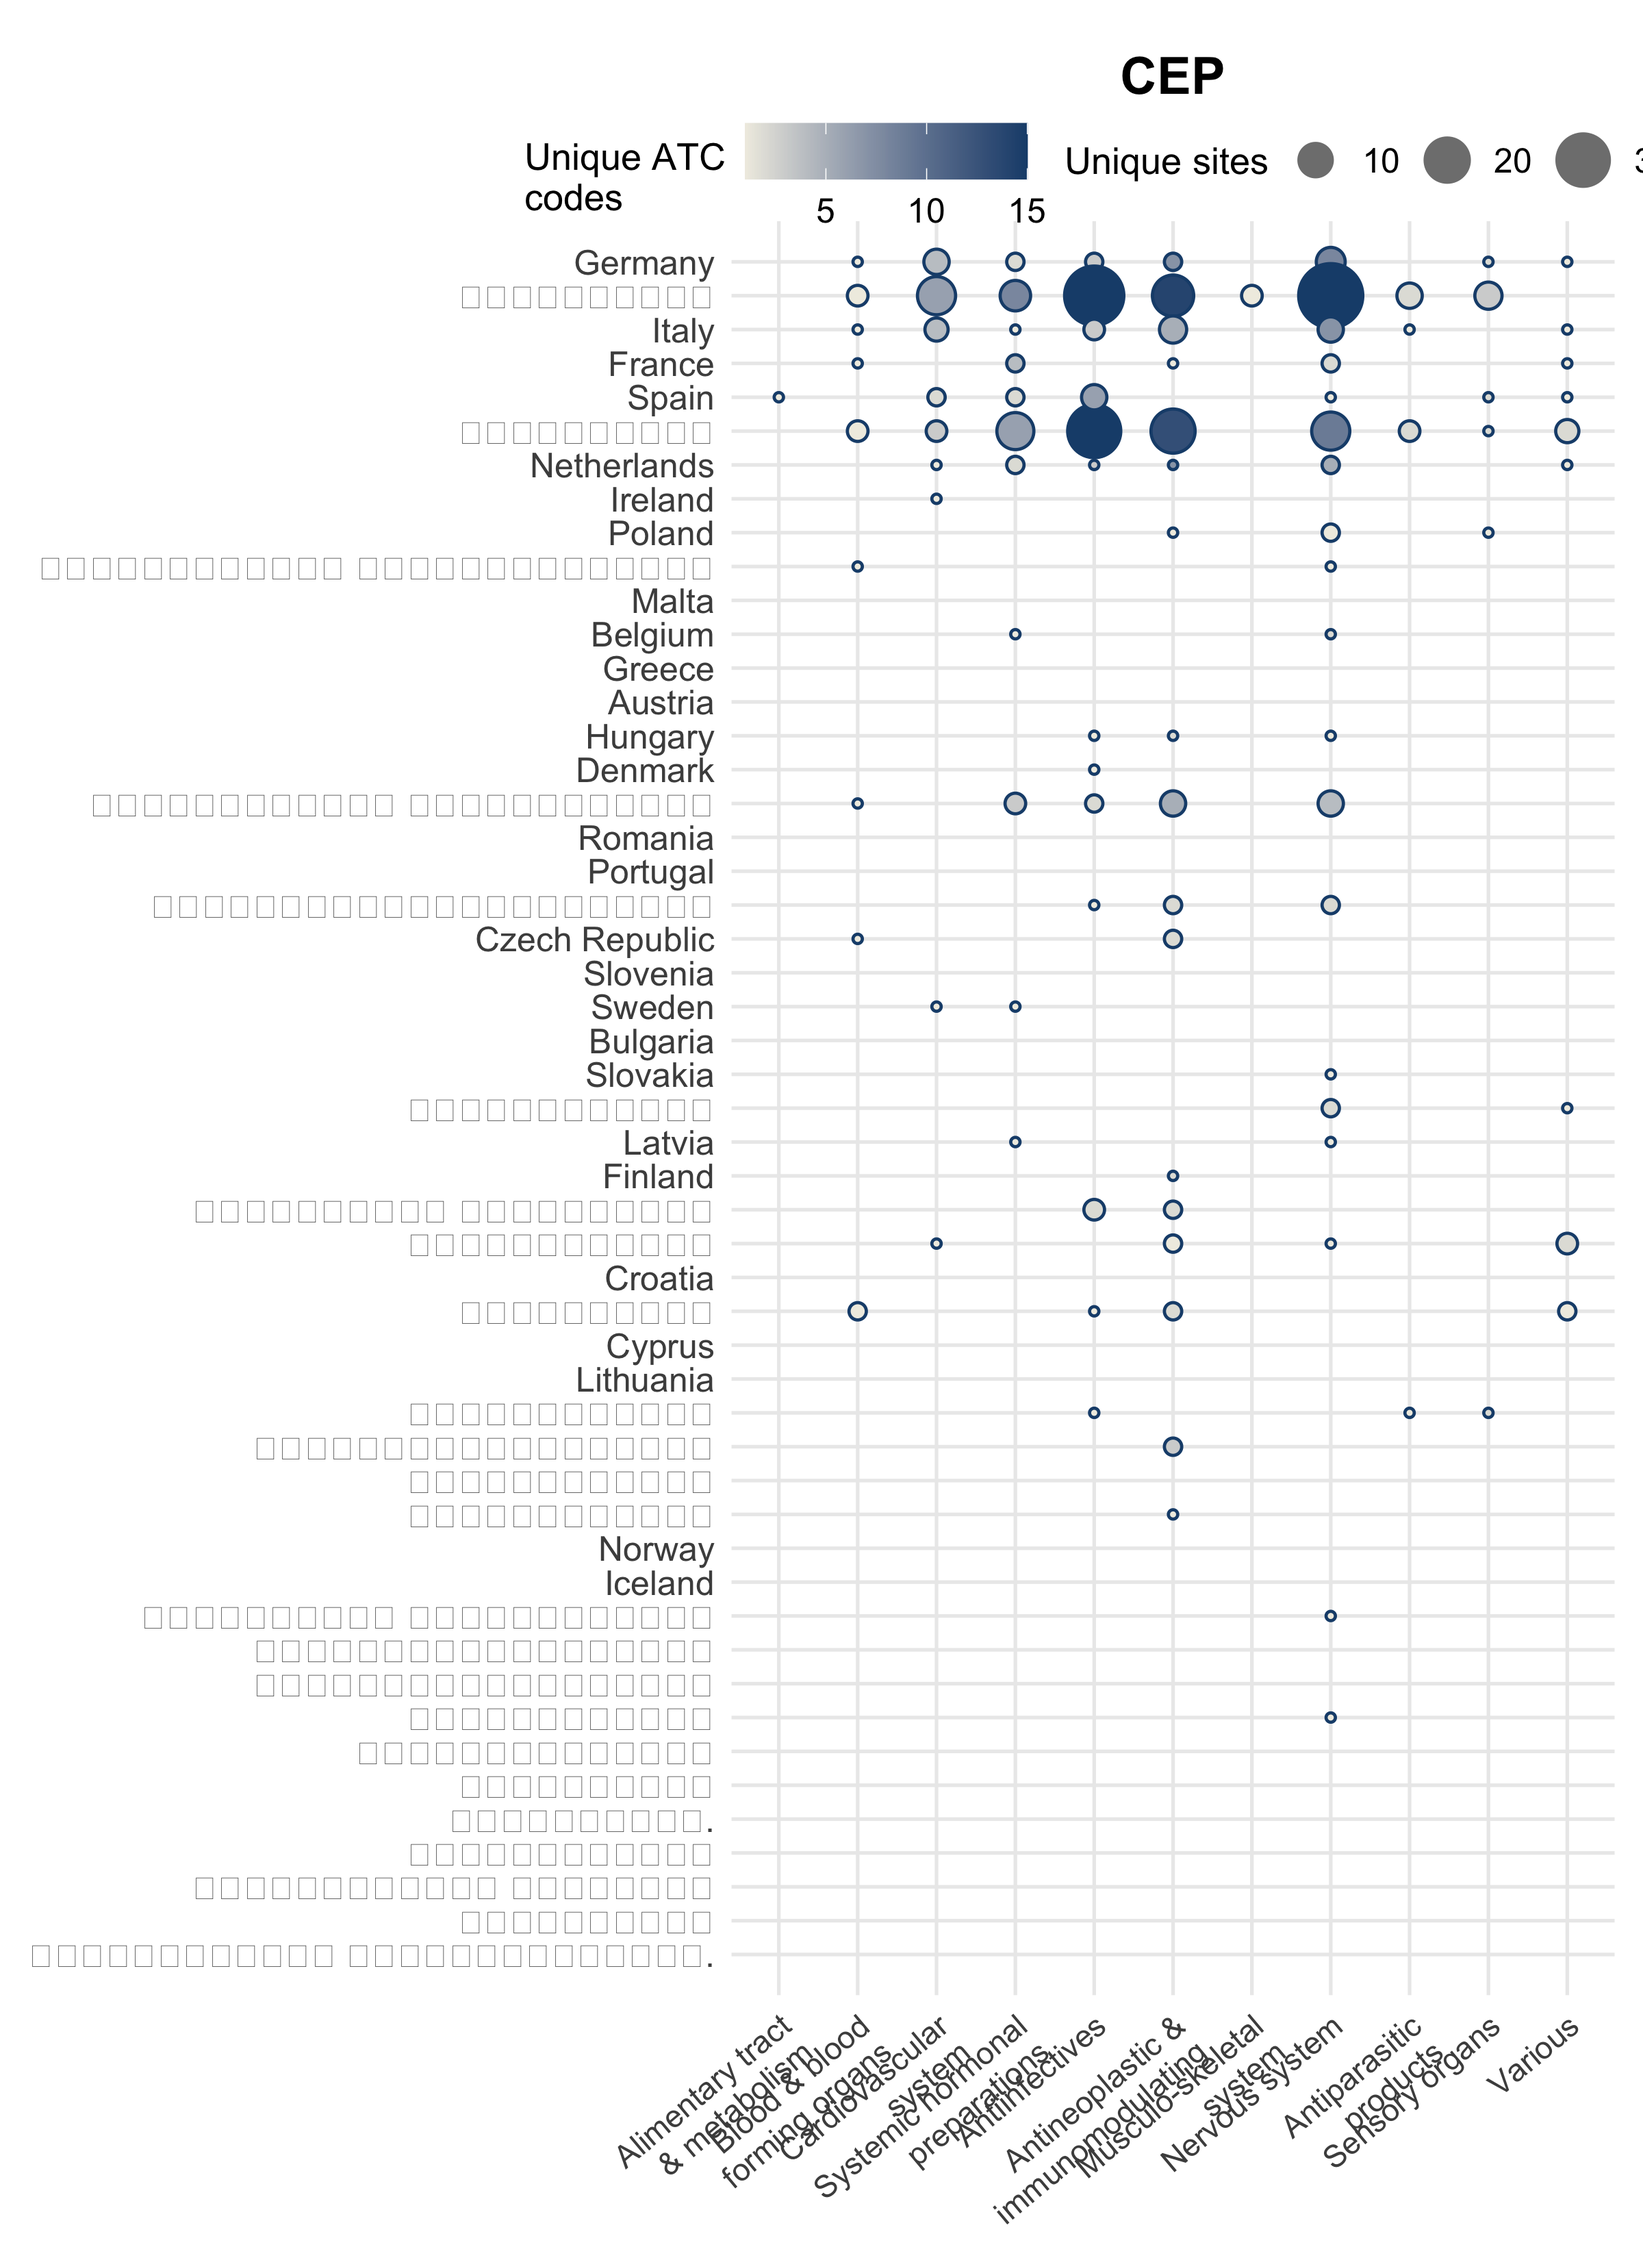
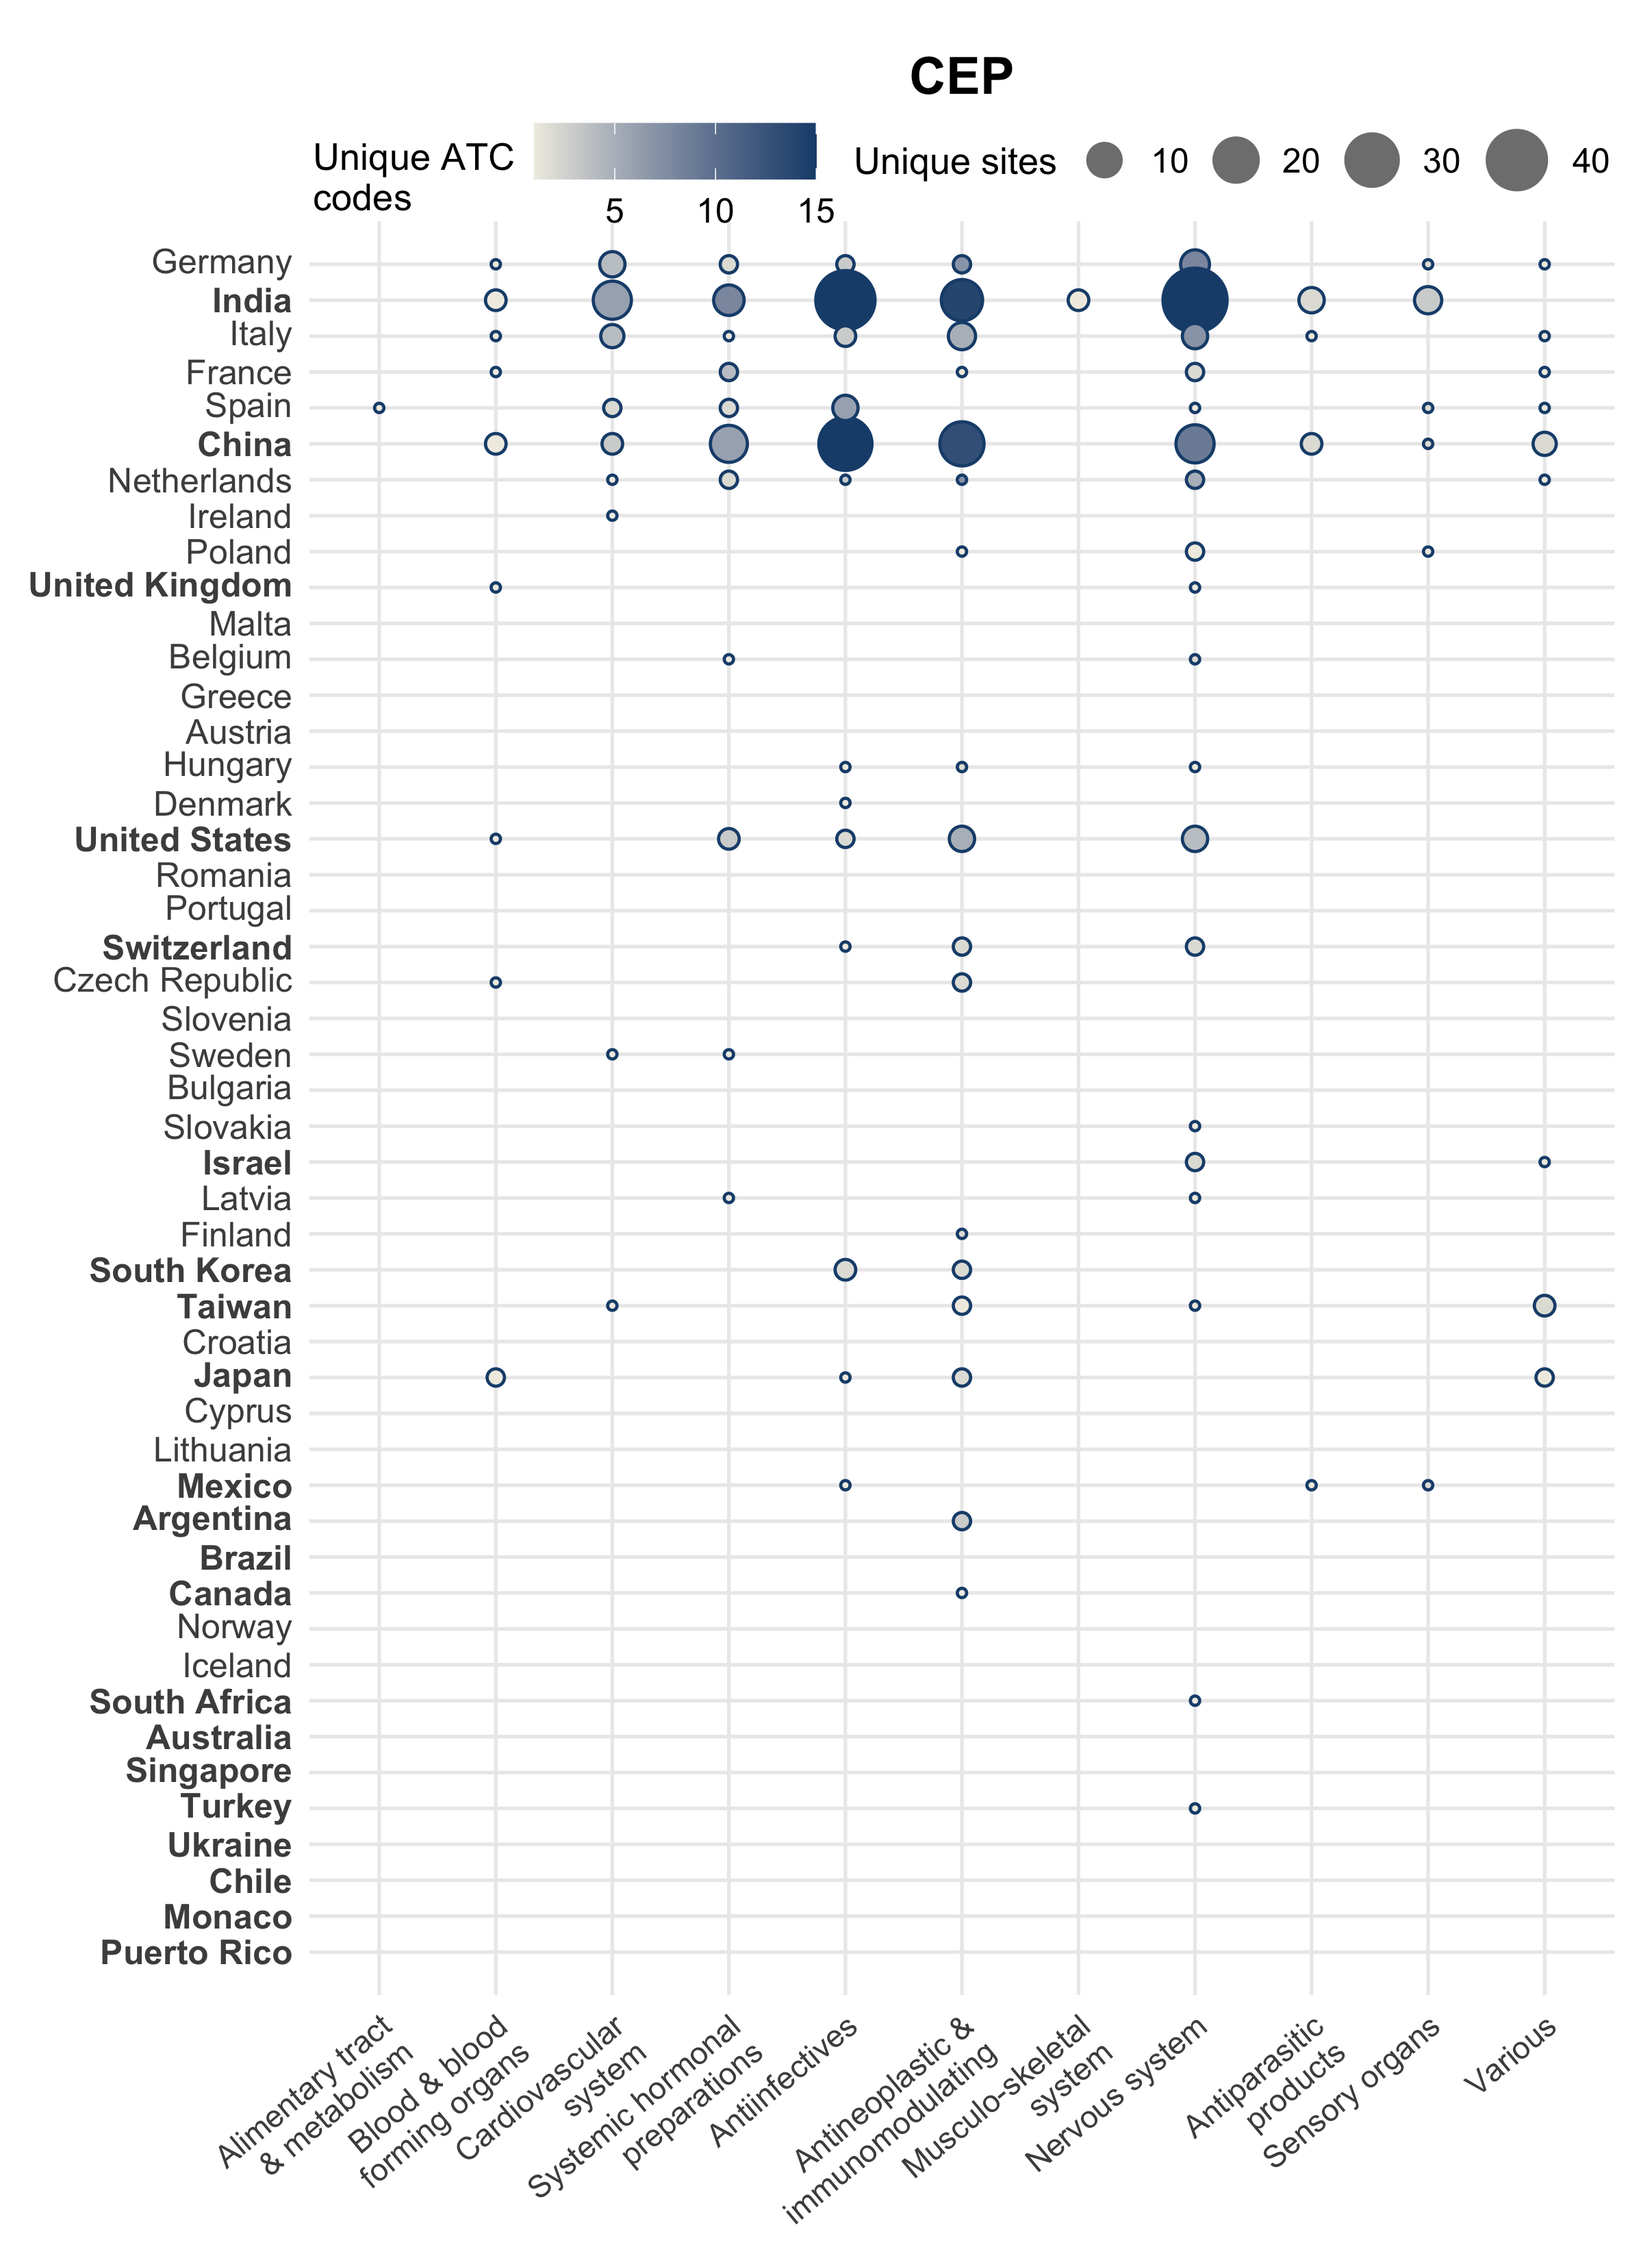
Fix duplicate country spellings and bold labels in bubble matrix
- 01_combine_sources.R unifies country spellings ("Italy.", "SPAIN",
  "United Kingdom.", "UK", "USA", "The Netherlands", "Republic of Korea"),
  which appeared as separate rows in the bubble matrix and inflated the
  Irish country count from 29 to 32
- 05_bubble_matrix.R marks non-EU/EEA countries with plotmath bold instead
  of Unicode mathematical-bold characters, which rendered as empty boxes
  with fonts lacking those glyphs

Changed region(s): [[0.0312, 0.0, 1.0, 0.9676], [0.125, 0.9364, 0.1875, 0.9676]]

diff --git a/results/tables/hhi_highest_by_source.tex b/results/tables/hhi_highest_by_source.tex
@@ -1,5 +1,5 @@
 % latex table generated in R 4.6.0 by xtable 1.8-8 package
-% Sat Oct  3 10:34:20 2026
+% Sat Oct  3 10:49:12 2026
 \begin{table}[ht]
 \centering
 \begin{tabular}{rlrrr}

diff --git a/README.md b/README.md
@@ -86,7 +86,7 @@ After restriction to critical medicines the four sources cover:
 | Source | ATC codes | Manufacturers | Countries |
 |---|---|---|---|
 | Germany (BfArM) | 251 | 1,824 | 48 |
-| Ireland (HPRA) | 205 | 523 | 32 |
+| Ireland (HPRA) | 205 | 523 | 29 |
 | CEP (EDQM) | 79 | 313 | 29 |
 | EPAR (EMA) | 51 | 140 | 26 |
 
@@ -122,7 +122,9 @@ manufacturer × country × manufacturing step × source, with the ATC level-1 ch
   result is then restricted to the critical codes. The holder's country is the trailing ISO-2 code of
   the holder field.
 - In all sources whitespace in names is collapsed, so names that differ only by an embedded line break
-  count as one manufacturer.
+  count as one manufacturer. Country spellings are unified across sources ("Italy." → Italy,
+  "SPAIN" → Spain, "UK" → United Kingdom, "USA" → United States, "Republic of Korea" → South Korea).
+  The paper draft still shows 32 countries for Ireland, three of them duplicate spellings.
 - If `critical.csv` is missing, the scripts fall back to the union of ATC codes in the EPAR,
   German and Irish files, which are already restricted to critical medicines.
 
